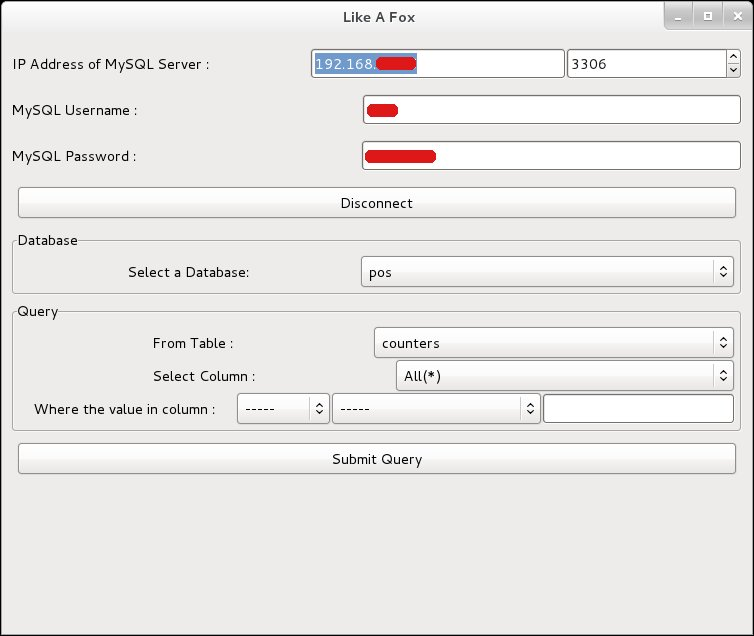
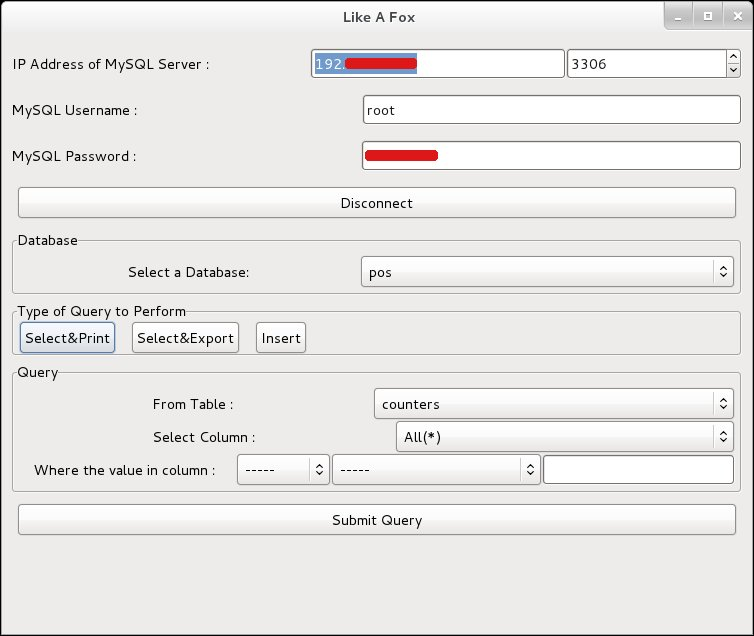
CSV Export Added

diff --git a/likeafox.py b/likeafox.py
@@ -19,7 +19,7 @@ import pygtk,gtk,re,csv,string
 
 class MysqlClient:
 	def submit(self,widget):
-		if self.type == "Select":
+		if self.type == "Select" and self.export == False:
 			# Print headings
 			if self.selectcolumn == "*":
 				self.cur.execute('select column_name from information_schema.columns where table_name = "%s" and TABLE_SCHEMA = "%s"' % (self.table,self.database))
@@ -51,6 +51,63 @@ class MysqlClient:
 						toprint = toprint + ", %s" % row[f]
 				print toprint
 			print "END"
+		elif self.type == "Select" and self.export == True:
+			
+			# Export Select Statement to File
+			# Print headings
+			### On submit load all results into an array ###
+			dataArray = []
+
+			if self.selectcolumn == "*":
+				self.cur.execute('select column_name from information_schema.columns where table_name = "%s" and TABLE_SCHEMA = "%s"' % (self.table,self.database))
+				numrows = int(self.cur.rowcount)
+				a = []
+				for i in range(numrows):
+					row = self.cur.fetchone()
+					a.append(row[0])
+				dataArray.append(a)
+			else:
+				dataArray.append(self.selectcolumn)
+
+
+			if self.wherecolumn != "" and self.where2column != "" and self.where3.get_text() != "":
+				self.cur.execute('select %s from %s where %s %s "%s"' % (self.selectcolumn,self.table,self.wherecolumn,self.where2column,self.where3.get_text()))
+			else:
+				self.cur.execute('select %s from %s' % (self.selectcolumn,self.table))
+			numrows = int(self.cur.rowcount)
+		    	for i in range(numrows):
+				row = self.cur.fetchone()
+				length = len(row)
+				a = []
+				for f in range(length):
+					a.append(row[f])
+				dataArray.append(a)
+
+
+			if len(dataArray) != 0:
+				### In case the query had no results ###
+				### Open Dialog asking user where they would like the new CSV stored ###
+				dialog = gtk.FileChooserDialog(title=None,action=gtk.FILE_CHOOSER_ACTION_SAVE,buttons=(gtk.STOCK_CANCEL,gtk.RESPONSE_CANCEL,gtk.STOCK_OPEN,gtk.RESPONSE_OK))
+				dialog.set_current_name("Output.csv")
+				dialog.set_default_response(gtk.RESPONSE_OK)
+				response = dialog.run()
+				if response == gtk.RESPONSE_OK:
+					outputpath = dialog.get_filename()
+				else:
+					outputpath = ""
+				dialog.destroy()
+
+				if outputpath != "":
+					### Write data to file ###
+					f = csv.writer(open(outputpath, 'wb'), delimiter=',',quotechar='"', quoting=csv.QUOTE_MINIMAL)
+					for count in range(0,len(dataArray)):
+						f.writerow(dataArray[count])
+					dialog = gtk.MessageDialog(self.window, gtk.DIALOG_MODAL,gtk.MESSAGE_INFO, gtk.BUTTONS_OK,"Export Completed!")
+					dialog.set_title("Like A Fox :)")
+
+					dialog.run()
+					dialog.destroy()
+
 		elif self.type == "Insert":
 			if self.csvpath != "":
 				Ofile = open(self.csvpath, 'r')
@@ -194,7 +251,15 @@ class MysqlClient:
 			self.cur = self.con.cursor()
 			self.buttons_hbox.show()
 
-	def select_query(self,widget):
+	def select_print_query(self,widget):
+		self.export = False
+		self.select_query()
+
+	def select_export_query(self,widget):
+		self.export = True
+		self.select_query()
+
+	def select_query(self):
 		self.type = "Select"
 		self.Qvbox.destroy()
 		self.submithbox.hide()
@@ -521,7 +586,7 @@ class MysqlClient:
 		self.password = gtk.Entry()
 		self.password.set_max_length(30)
 		self.password.connect("activate", self.enter_callback, self.password)
-		self.password.set_text("*******")
+		self.password.set_text("******")
 		self.password.select_region(0, len(self.password.get_text()))
 		self.passhbox.pack_start(self.password, True, True, 0)
 		#
@@ -544,13 +609,16 @@ class MysqlClient:
 		self.main_vbox.pack_start(self.typeframe, False, False, 0)
 		self.main_vbox.pack_start(self.Qframe, False, False, 0)
 		#
-		selectQButton = gtk.Button("Select")
-		selectQButton.connect("clicked", self.select_query)
+		selectQButton = gtk.Button("Select&Print")
+		selectQButton.connect("clicked", self.select_print_query)
+		selectExportQButton = gtk.Button("Select&Export")
+		selectExportQButton.connect("clicked", self.select_export_query)
 		insertQButton = gtk.Button("Insert")
 		insertQButton.connect("clicked", self.insert_query)
 		self.buttons_hbox = gtk.HBox(False, 5)
 		self.typeframe.add(self.buttons_hbox)
 		self.buttons_hbox.pack_start(selectQButton, False, False, 5)
+		self.buttons_hbox.pack_start(selectExportQButton, False, False, 5)
 		self.buttons_hbox.pack_start(insertQButton, False, False, 5)
 		#
 		self.submithbox = gtk.HBox(False, 0)
